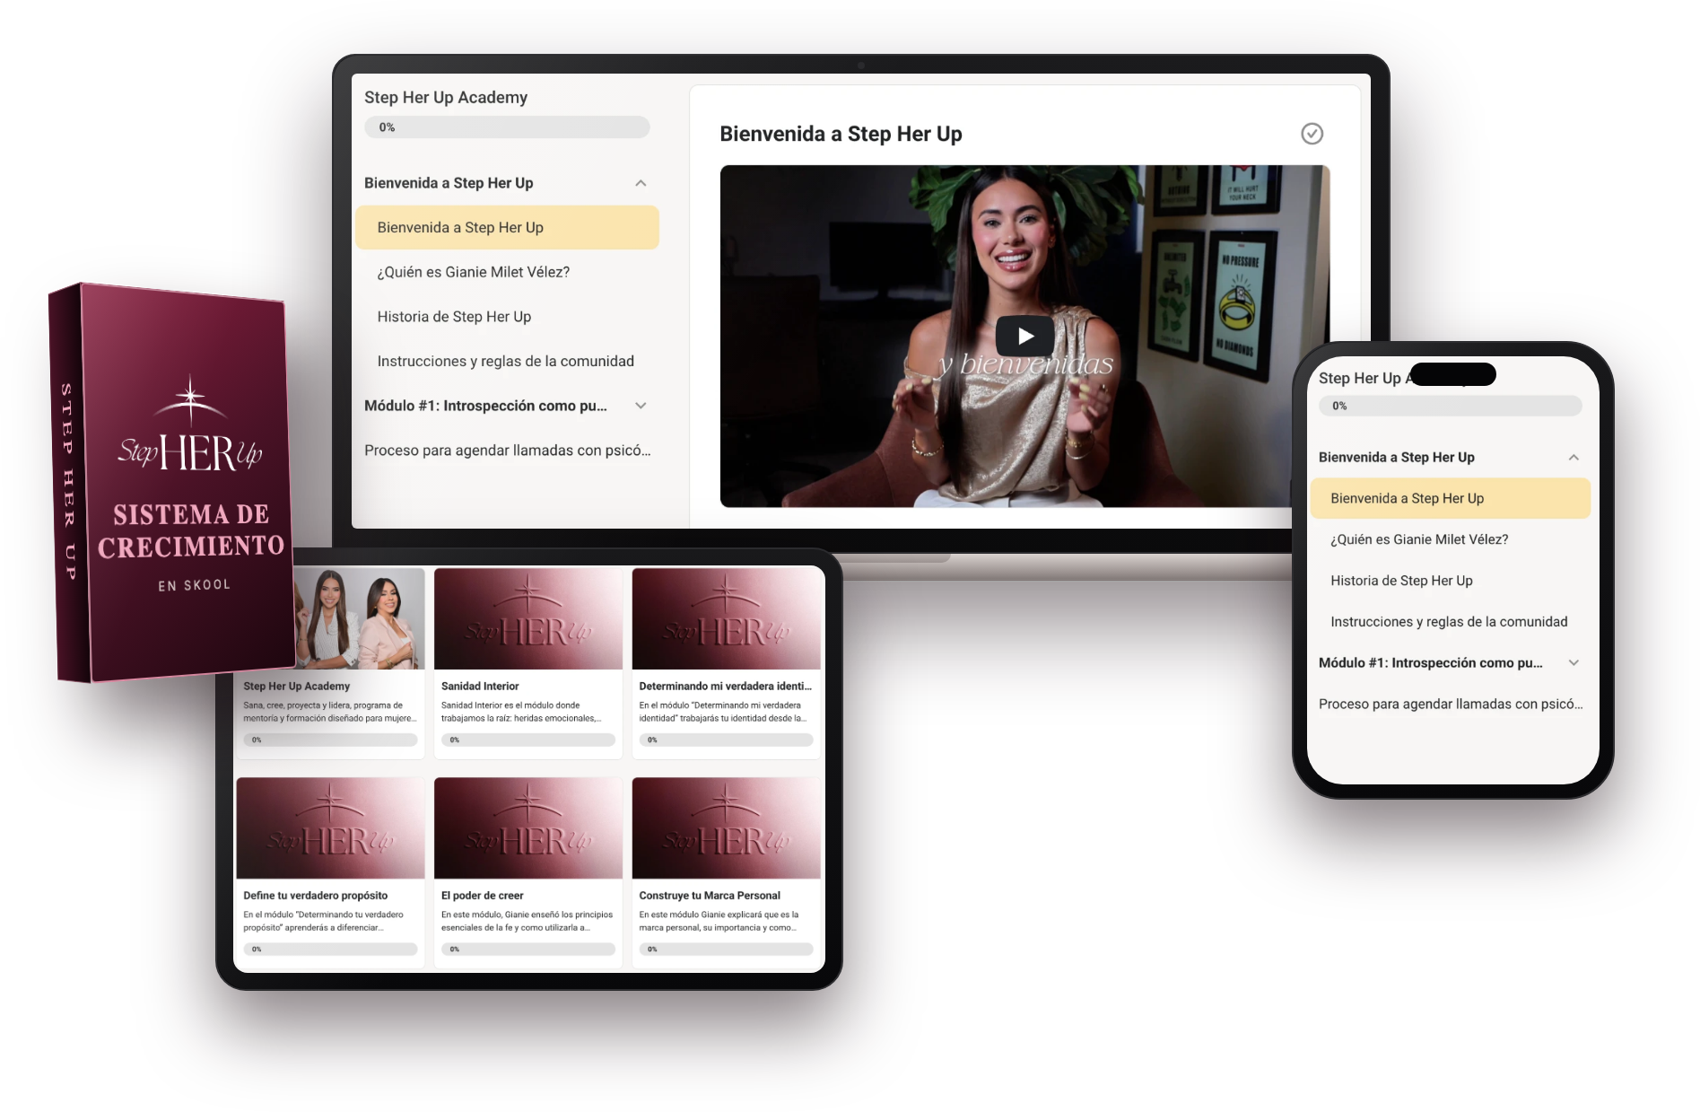
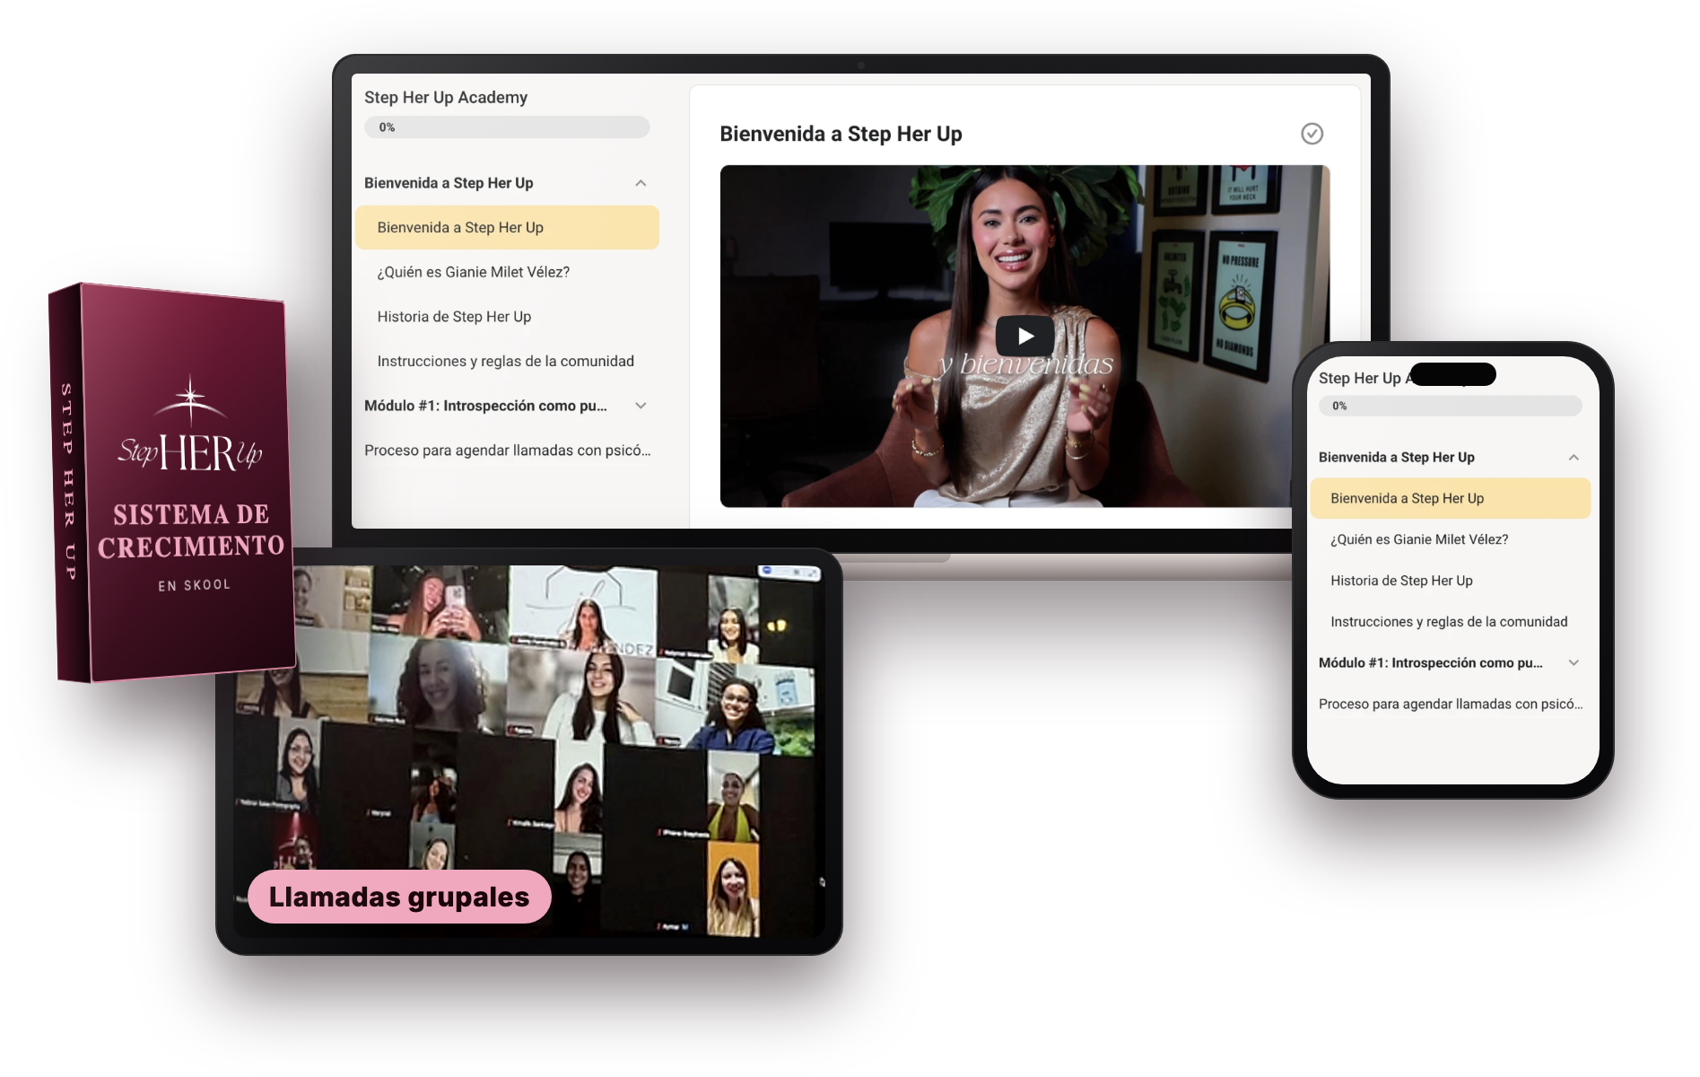
Oferta: sin política ni sección de Gianie, todos los botones van a Stripe, captura de llamadas grupales en el mockup

diff --git a/oferta/index.html b/oferta/index.html
@@ -136,7 +136,7 @@ fbq('track', 'PageView');
 <body>
 <header class="top"><div class="wrap">
   <a href="https://shu.stepherup.com/gianie/" aria-label="Step Her Up"><img src="https://shu.stepherup.com/assets/logo-sitio.png" alt="Step Her Up" width="77" height="50"></a>
-  <a class="btn sm pay" href="#pago">Asegurar mi lugar</a>
+  <a class="btn sm pay" href="#">Asegurar mi lugar</a>
 </div></header>
 
 <main>
@@ -147,7 +147,7 @@ fbq('track', 'PageView');
     <div id="contador" class="count" aria-live="polite">
       <div><b id="cd-d">0</b><span>días</span></div><div><b id="cd-h">00</b><span>horas</span></div><div><b id="cd-m">00</b><span>min</span></div><div><b id="cd-s">00</b><span>seg</span></div>
     </div><br>
-    <a class="btn pay" href="#pago" id="cta-hero">Asegurar mi lugar por $997</a>
+    <a class="btn pay" href="#" id="cta-hero">Asegurar mi lugar por $997</a>
     <p class="price-note">Pago único de $997</p>
   </div></section>
 
@@ -231,7 +231,6 @@ fbq('track', 'PageView');
     <div class="price">$997 <small>pago único</small></div>
     <p class="lede">Más de 100 videos, ≈26 llamadas grupales con Gianie, comunidad y devocionales.</p>
     <a class="btn pay" href="#">Asegurar mi lugar por $997</a>
-    <p class="price-note">Antes de pagar, revisa la política de reembolsos al final de la página.</p>
   </div></section>
 
   <section class="block paper" id="testimonios"><div class="wrap">
@@ -256,16 +255,6 @@ fbq('track', 'PageView');
     <a class="btn pay" href="#">Asegurar mi lugar por $997</a>
   </div></section>
 
-  <section class="block paper"><div class="wrap guide">
-    <img src="https://shu.stepherup.com/assets/gianie-foto.jpg" alt="Gianie Milet" loading="lazy" width="832" height="1040">
-    <div>
-      <p class="eyebrow">Quién te guía</p>
-      <h2>Gianie Milet</h2>
-      <p>Consultora de marca personal y ventas en Puerto Rico y fundadora de Step Her Up. Ha acompañado a más de 70 mujeres profesionales a posicionarse, atraer a sus clientas ideales y cobrar lo que valen.</p>
-      <a class="link" href="https://shu.stepherup.com/gianie/">Conoce más sobre Gianie →</a>
-    </div>
-  </div></section>
-
   <section class="block light"><div class="wrap center">
     <p class="eyebrow">Preguntas frecuentes</p>
     <h2>Antes de decidir</h2>
@@ -273,20 +262,7 @@ fbq('track', 'PageView');
       <details><summary>¿Qué incluye?</summary><p>Más de 100 videos de adiestramiento en Skool (8 módulos), unas 26 llamadas grupales semanales con Gianie durante seis meses, la comunidad privada de mujeres profesionales, networking y reflexiones devocionales guiadas por una pastora.</p></details>
       <details><summary>¿Cómo recibo mi acceso?</summary><p>Después de tu pago, te enviamos a tu correo los pasos para entrar a la plataforma.</p></details>
       <details><summary>¿El pago es único?</summary><p>Sí, es un pago único de $997.</p></details>
-      <details><summary>¿Hay reembolsos?</summary><p>Consulta la política de reembolsos al final de esta página antes de pagar.</p></details>
       <details><summary>¿Para quién es?</summary><p>Para mujeres profesionales y emprendedoras que dan mucho valor y quieren posicionarse como expertas para atraer a sus clientas ideales y cobrar lo que valen.</p></details>
-    </div>
-  </div></section>
-
-  <section class="block paper" id="politica"><div class="wrap center">
-    <p class="eyebrow">Antes de pagar</p>
-    <h2>Política de reembolsos y condiciones</h2>
-    <div style="margin-top:34px;text-align:left">
-      <details><summary>Reembolsos</summary><p>El Sistema de crecimiento en Skool es un producto digital con acceso inmediato a la plataforma y a los contenidos. Por eso, una vez realizado el pago y entregado el acceso, la compra es final y no es reembolsable.</p></details>
-      <details><summary>Excepciones</summary><p>Revisaremos tu caso y te reembolsaremos si se te cobró más de una vez por el mismo producto, o si por un problema técnico de nuestra parte no pudiste acceder a la plataforma y no logramos resolverlo.</p></details>
-      <details><summary>Cómo solicitar una revisión</summary><p>Escríbenos a <strong>contact@stepherup.com</strong> dentro de los 7 días siguientes a tu compra, con el nombre y el correo que usaste al pagar y una breve explicación.</p></details>
-      <details><summary>Acceso</summary><p>El acceso es personal e intransferible. Los contenidos, documentos y clases son propiedad de Step Her Up y no pueden copiarse, compartirse ni revenderse.</p></details>
-      <details><summary>Resultados</summary><p>Los resultados no están garantizados y dependen del compromiso y la situación de cada persona. Los testimonios son experiencias reales de alumnas y no prometen resultados iguales.</p></details>
     </div>
   </div></section>
 </main>
@@ -304,7 +280,6 @@ fbq('track', 'PageView');
   // --------------------------------------
   document.querySelectorAll("a.pay").forEach(function (a) {
     a.addEventListener("click", function (e) {
-      if (a.getAttribute("href") === "#pago") return; // los de la cabecera/portada bajan al bloque de pago
       try { if (typeof fbq === "function") fbq("track", "InitiateCheckout", { value: 997, currency: "USD", content_name: "Sistema de crecimiento en Skool" }); } catch (x) {}
       if (!LINK_PAGO) { e.preventDefault(); alert("El link de pago todavía no está configurado."); return; }
       e.preventDefault(); window.location.href = LINK_PAGO;
